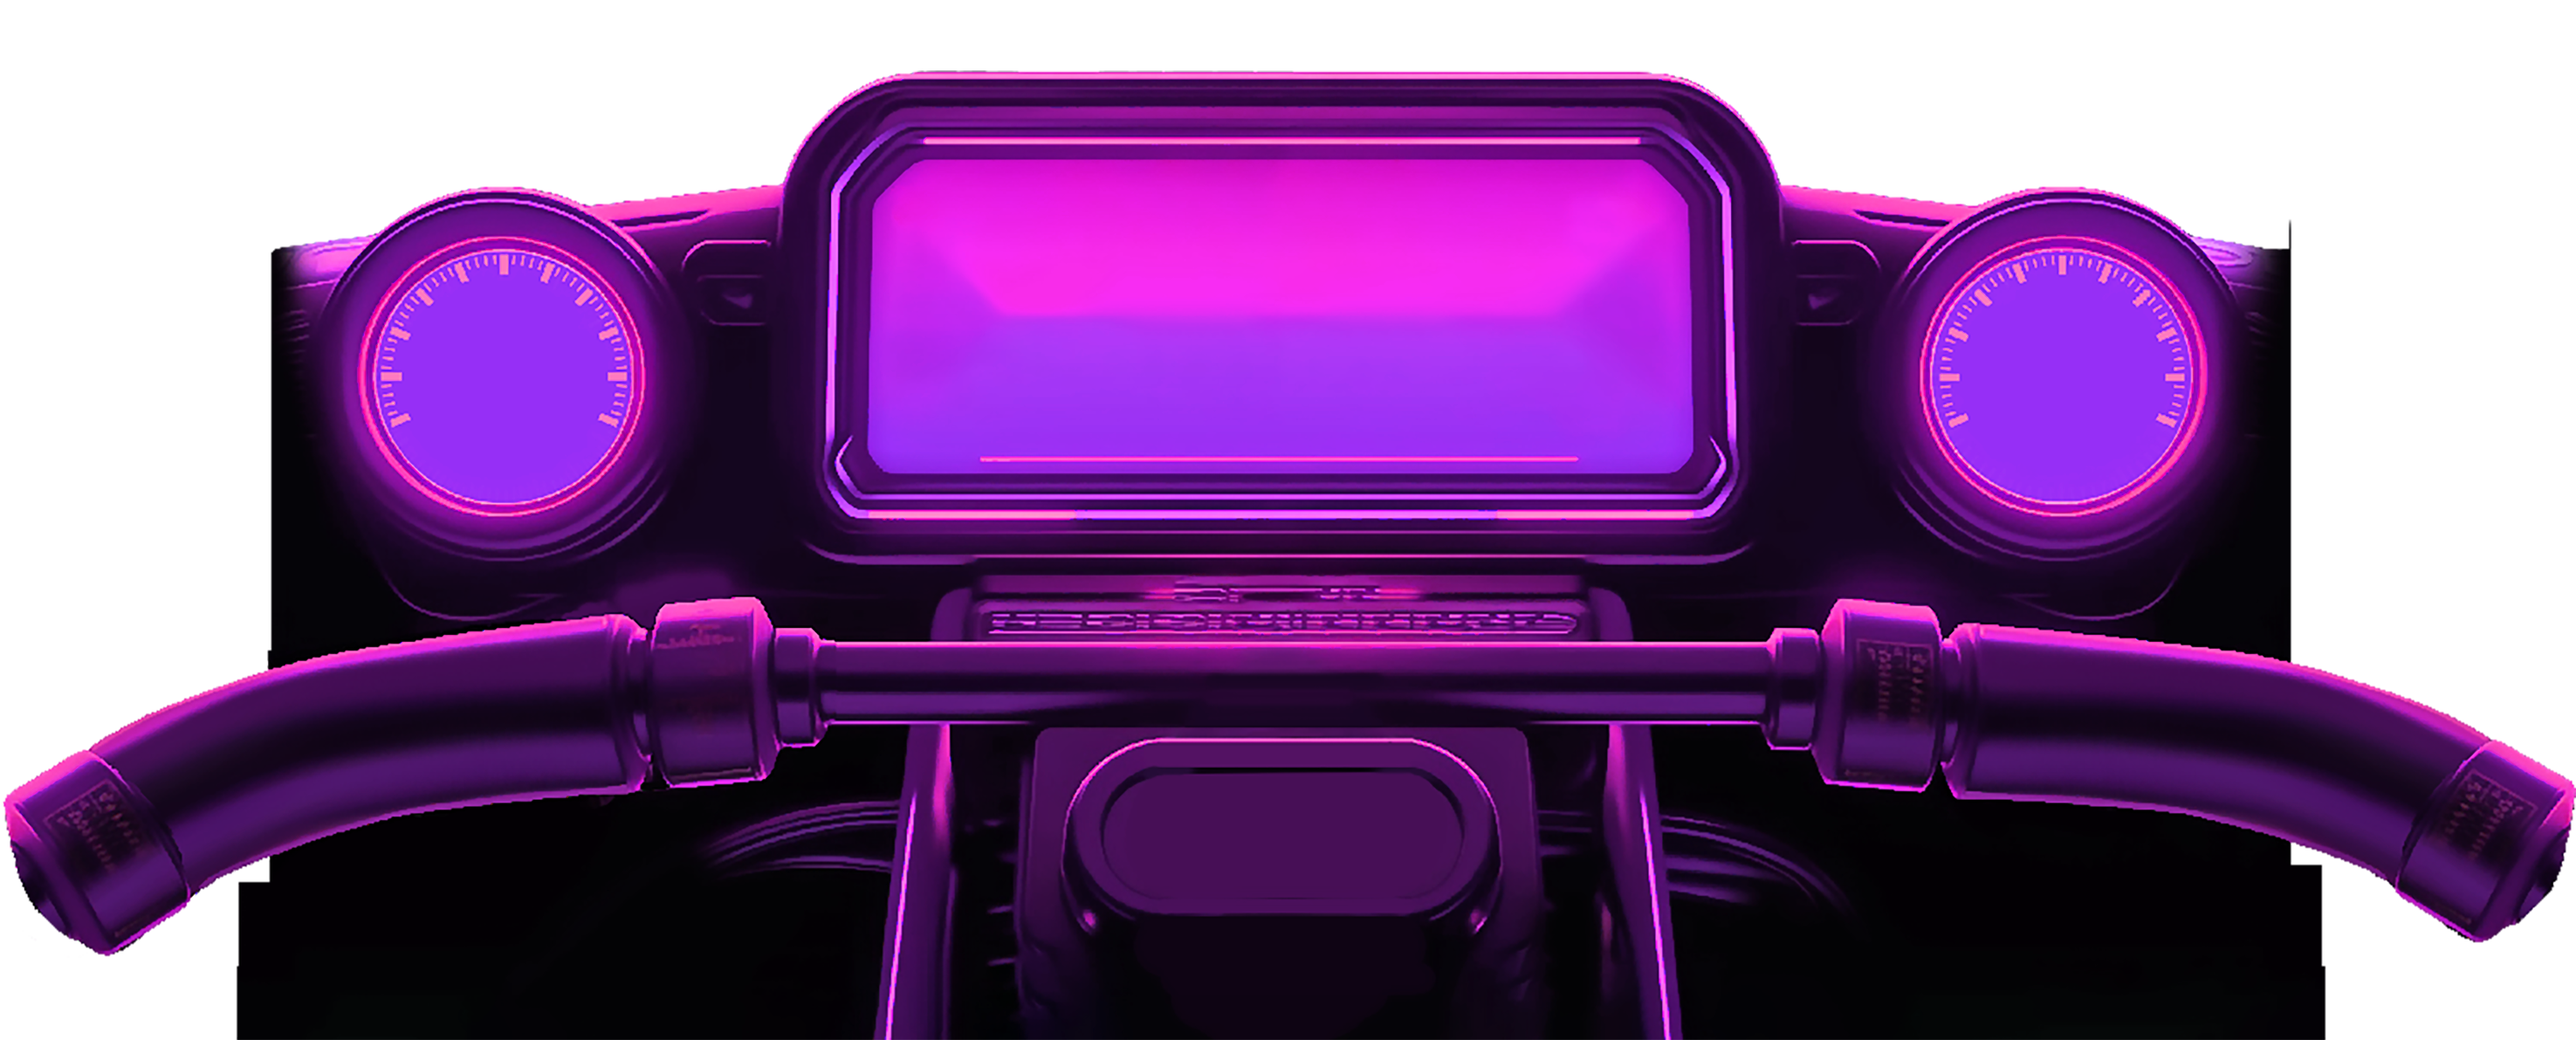
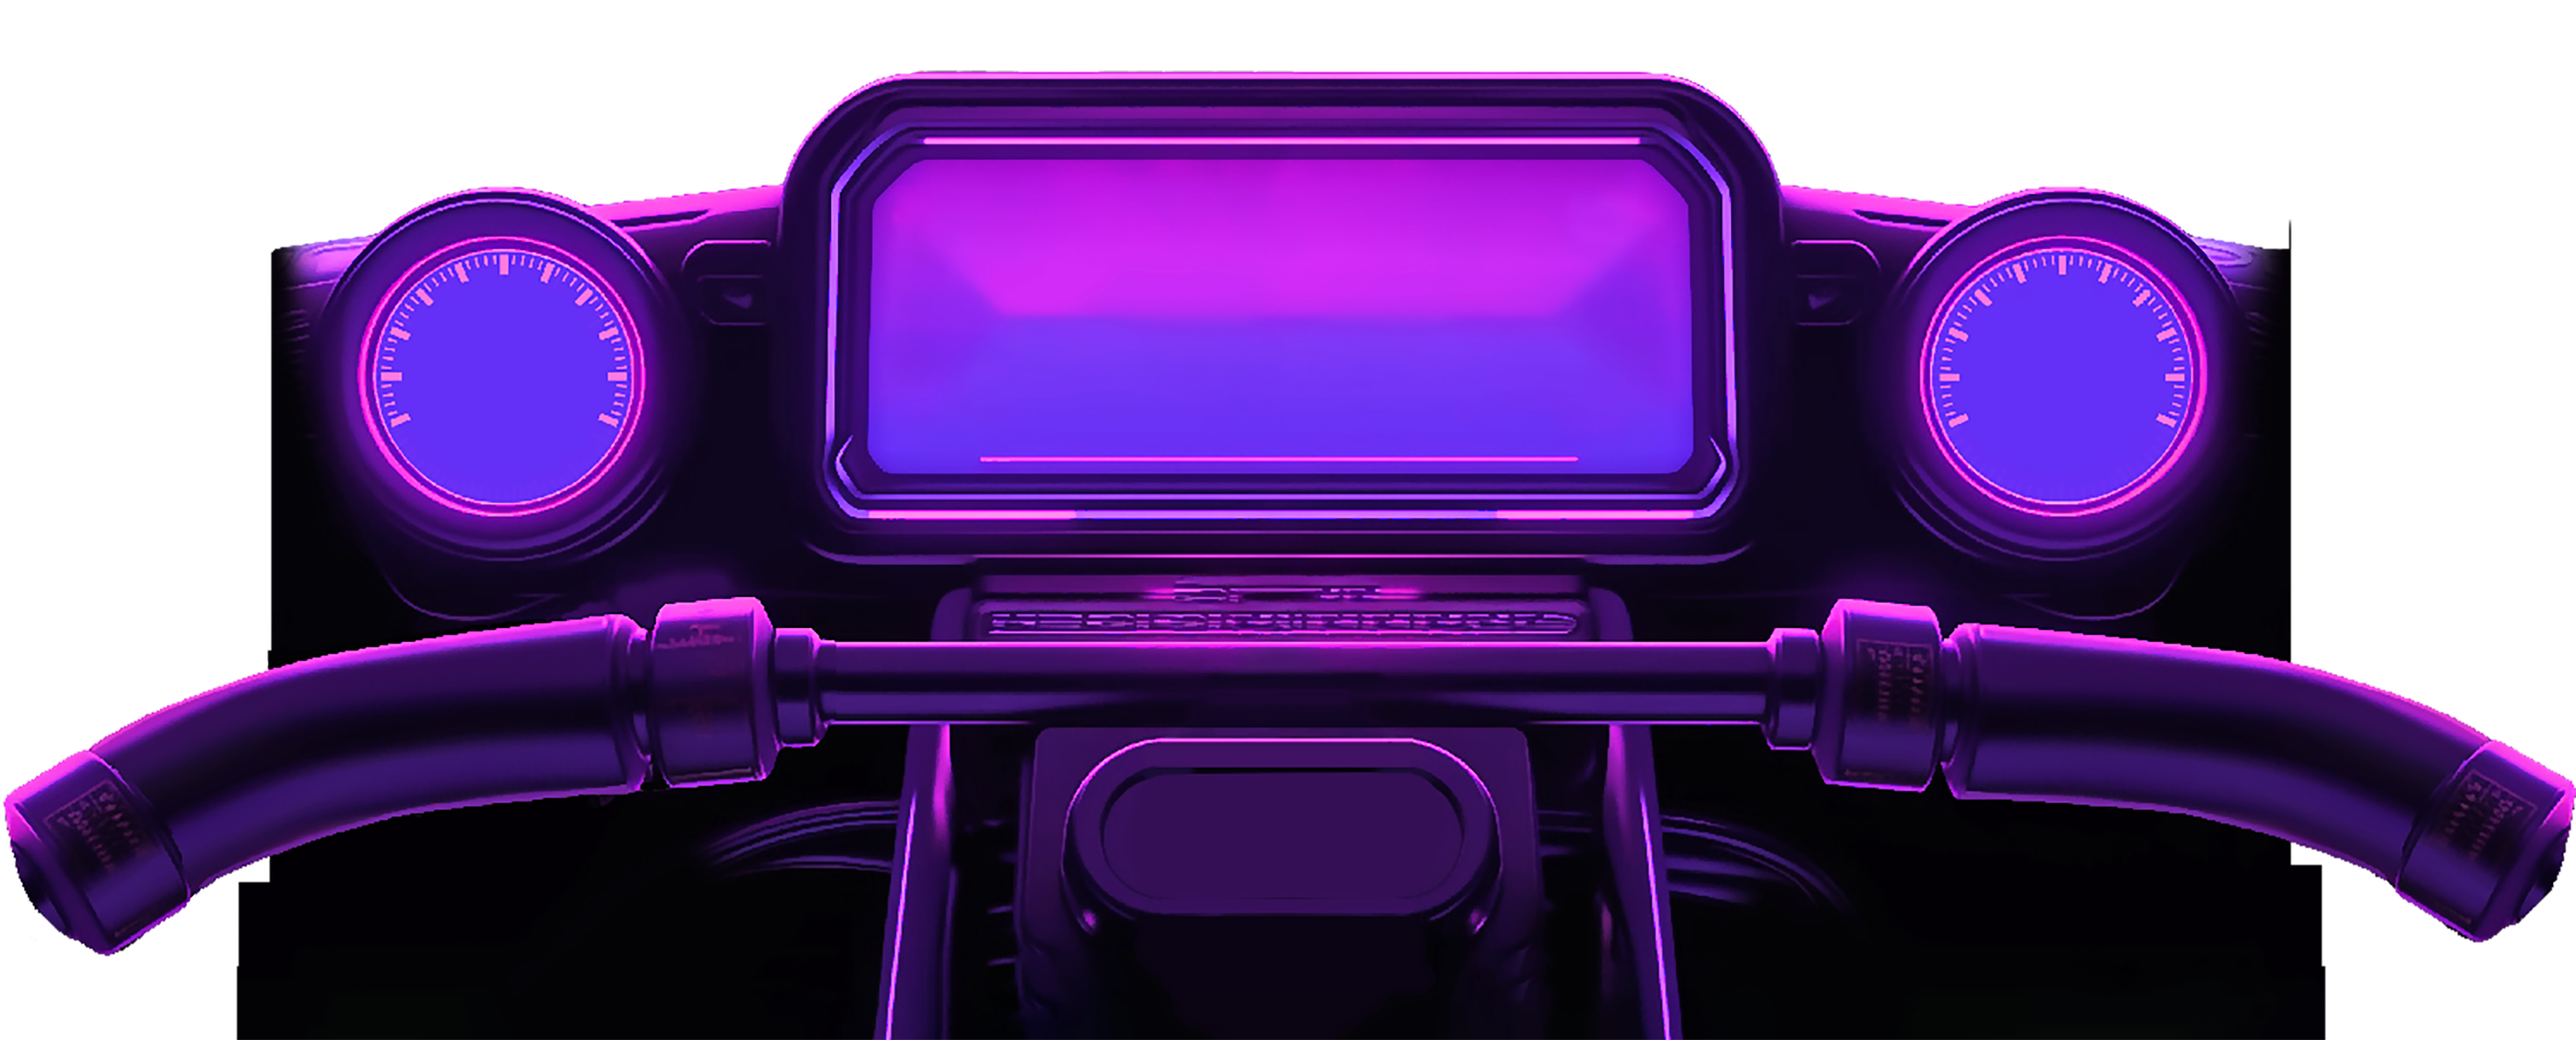
panel style update

diff --git a/game-ui/assets/style.css b/game-ui/assets/style.css
@@ -104,7 +104,7 @@
     position: absolute;
     z-index: 100;
     bottom: 0;
-    background: url('./items/panels/bike-panel-only.png') no-repeat center bottom;
+    background: url('./items/panels/bike-panel-dark.png') no-repeat center bottom;
     background-size: auto calc(50vh - 40px);
     filter: contrast(1);
     transition: filter 0.5s ease;
@@ -125,7 +125,7 @@
 
     50% {
         filter: contrast(1.5) brightness(1.5);
-        background-size: auto calc(50vh - 25px);
+        background-size: auto calc(50vh - 30px);
     }
 
     100% {
@@ -160,76 +160,47 @@
 }
 
 .player {
-    --bike-width: 10vw;
+    --bike-width: 121px;
 }
-
 .player .frame {
     position: absolute;
     z-index: 1;
     width: var(--bike-width);
 }
-
 .player .wheels {
     margin-top: 55px;
     position: absolute;
     width: var(--bike-width);
 }
-
 .player .back,
 .player .front {
     width: 30%;
     animation: spin 0.05s infinite linear;
+}
+.player-shadow {
+    z-index: 10;
+    --shadow-left: 70px;
+    position: absolute;
+    bottom: 3px;
+    left: var(--shadow-left);
+    width: 160px;
+    height: 12px;
+    border-radius: 50%;
+    filter: blur(3px);
+    background-image: linear-gradient(to left, rgba(0, 0, 0, 0.3) 0%, rgba(0, 0, 0, 0.8) 100%);
 }
 
 #red {
     --red-left: 200px;
     position: absolute;
     width: 8%;
-    margin-bottom: 10px;
+    margin-bottom: 8px;
     animation: redBackForth 5s infinite linear;
 }
 #red .player {
     min-height: 100px;
     width: 100%;
     margin-left: 100px;
-}
-#red .player-shadow {
-    --red-shadow-left: 110%;
-    position: absolute;
-    bottom: 0px;
-    left: var(--red-shadow-left);
-    transform: translateX(-50%);
-    width: 140%;
-    height: 10px;
-    border-radius: 50%;
-    filter: blur(3px);
-    animation: redShadowBackForth 5s infinite linear;
-    background-image: linear-gradient(to left, rgba(0, 0, 0, 0.5) 0%, rgba(0, 0, 0, 0.8) 100%);
-}
-@keyframes redShadowBackForth {
-    0% {
-        left: var(--red-shadow-left);
-    }
-
-    20% {
-        left: calc(var(--red-shadow-left) * 0.9);
-    }
-
-    40% {
-        left: var(--red-shadow-left);
-    }
-
-    60% {
-        left: calc(var(--red-shadow-left) * 1.5);
-    }
-
-    80% {
-        left: var(--red-shadow-left);
-    }
-
-    100% {
-        left: var(--red-shadow-left);
-    }
 }
 @keyframes redBackForth {
     0% {
@@ -257,6 +228,40 @@
     }
 }
 
+#purple {
+    --purple-left: 300px;
+    position: absolute;
+    width: 24%;
+    margin-bottom: 30px;
+    animation: purpleBackForth 5s infinite linear;
+}
+#purple .player {
+    min-height: 100px;
+    width: 95%;
+    margin-left: 100px;
+}
+@keyframes purpleBackForth {
+    0% {
+        margin-left: var(--purple-left);
+    }
+
+    25% {
+        margin-left: calc(var(--purple-left) * 0.8);
+    }
+
+    50% {
+        margin-left: var(--purple-left);
+    }
+
+    75% {
+        margin-left: calc(var(--purple-left) * 2);
+    }
+
+    100% {
+        margin-left: var(--purple-left);
+    }
+}
+
 #white {
     --white-left: 100px;
     position: absolute;
@@ -268,40 +273,6 @@
     min-height: 100px;
     width: 95%;
     margin-left: 100px;
-}
-#white .player-shadow {
-    --white-shadow-left: 140%;
-    position: absolute;
-    bottom: 0px;
-    left: var(--shadow-left);
-    transform: translateX(-50%);
-    width: 140%;
-    height: 10px;
-    border-radius: 50%;
-    filter: blur(3px);
-    animation: whiteShadowBackForth 5s infinite linear;
-    background-image: linear-gradient(to left, rgba(0, 0, 0, 0.5) 0%, rgba(0, 0, 0, 0.8) 100%);
-}
-@keyframes whiteShadowBackForth {
-    0% {
-        left: var(--white-shadow-left);
-    }
-
-    25% {
-        left: calc(var(--white-shadow-left) * 0.8);
-    }
-
-    50% {
-        left: var(--white-shadow-left);
-    }
-
-    75% {
-        left: calc(var(--white-shadow-left) * 2);
-    }
-
-    100% {
-        left: var(--white-shadow-left);
-    }
 }
 @keyframes whiteBackForth {
     0% {
@@ -325,86 +296,7 @@
     }
 }
 
-#purple {
-    --purple-left: 300px;
-    position: absolute;
-    width: 8%;
-    margin-bottom: 40px;
-    animation: purpleBackForth 5s infinite linear;
-}
-#purple .player {
-    min-height: 100px;
-    width: 95%;
-    margin-left: 100px;
-    background: url('./items/player/purple/purple-frame.png') left bottom;
-    background-size: contain;
-    background-repeat: no-repeat;
-}
-#purple .player .back {
-    background: url('./items/player/purple/purple-back.png') center center;
-    background-size: contain;
-    background-repeat: no-repeat;
-}
-#purple .player .front {
-    background: url('./items/player/purple/purple-front.png') center center;
-    background-size: contain;
-    background-repeat: no-repeat;
-}
-#purple .player-shadow {
-    --purple-shadow-left: 140%;
-    position: absolute;
-    bottom: 0px;
-    left: var(--shadow-left);
-    transform: translateX(-50%);
-    width: 140%;
-    height: 10px;
-    border-radius: 50%;
-    filter: blur(3px);
-    animation: purpleShadowBackForth 5s infinite linear;
-    background-image: linear-gradient(to left, rgba(0, 0, 0, 0.5) 0%, rgba(0, 0, 0, 0.8) 100%);
-}
-@keyframes purpleShadowBackForth {
-    0% {
-        left: var(--purple-shadow-left);
-    }
 
-    25% {
-        left: calc(var(--purple-shadow-left) * 0.8);
-    }
-
-    50% {
-        left: var(--purple-shadow-left);
-    }
-
-    75% {
-        left: calc(var(--purple-shadow-left) * 2);
-    }
-
-    100% {
-        left: var(--purple-shadow-left);
-    }
-}
-@keyframes purpleBackForth {
-    0% {
-        margin-left: var(--purple-left);
-    }
-
-    25% {
-        margin-left: calc(var(--purple-left) * 0.8);
-    }
-
-    50% {
-        margin-left: var(--purple-left);
-    }
-
-    75% {
-        margin-left: calc(var(--purple-left) * 2);
-    }
-
-    100% {
-        margin-left: var(--purple-left);
-    }
-}
 
 
 @keyframes spin {

diff --git a/game-ui/assets/index.html b/game-ui/assets/index.html
@@ -44,6 +44,7 @@
             <div id="game-body">
                 <div id="game-bg">
                     <div class="layer-top d-flex justify-content-start align-items-end">
+                        <!-- red -->
                         <div class="player-container" style="z-index:3;" id="red">
                             <div class="player">
                                 <img src="./items/player/red/red-frame.png" alt="frame" class="frame">
@@ -54,22 +55,24 @@
                             </div>
                             <div class="player-shadow"></div>
                         </div>
+                        <!-- purple -->
+                        <div class="player-container" style="z-index:2;" id="purple">
+                            <div class="player">
+                                <img src="./items/player/purple/purple-frame.png" alt="frame" class="frame">
+                                <div class="wheels d-flex justify-content-between">
+                                    <img src="./items/player/purple/purple-back.png" alt="backWheel" class="back">
+                                    <img src="./items/player/purple/purple-front.png" alt="backWheel" class="front">
+                                </div>
+                            </div>
+                            <div class="player-shadow"></div>
+                        </div>
+                        <!-- white -->
                         <div class="player-container" style="z-index:1;" id="white">
                             <div class="player">
                                 <img src="./items/player/white/white-frame.png" alt="frame" class="frame">
                                 <div class="wheels d-flex justify-content-between">
                                     <img src="./items/player/white/white-back.png" alt="backWheel" class="back">
                                     <img src="./items/player/white/white-front.png" alt="backWheel" class="front">
-                                </div>
-                            </div>
-                            <div class="player-shadow"></div>
-                        </div>
-                        <div class="player-container" style="z-index:1;" id="purple">
-                            <div class="player">
-                                <img src="./items/player/purple/purple-frame.png" alt="frame" class="frame">
-                                <div class="wheels d-flex justify-content-between">
-                                    <img src="./items/player/purple/purple-back.png" alt="backWheel" class="back">
-                                    <img src="./items/player/purple/purple-front.png" alt="backWheel" class="front">
                                 </div>
                             </div>
                             <div class="player-shadow"></div>

diff --git a/game-ui/assets/js/background.js b/game-ui/assets/js/background.js
@@ -6,18 +6,28 @@ let acceleration = 0.0001;
 let bikeSpeed = 5.98; // meters per second
 
 function moveBackground() {
-  marginLeft -= speed;
-  layerTop.style.backgroundPosition = `${marginLeft}px bottom`;
-  speed += acceleration;
-  bikeSpeed = speed * 5.98 / 60;
+  if (speed <= 10) {
+    marginLeft -= speed;
+    layerTop.style.backgroundPosition = `${marginLeft}px bottom`;
+    speed += acceleration;
+    bikeSpeed = speed * 5.98 / 60;
 
-  if (speed >= 8) {
-    const red = document.querySelector('#red');
-    red.style.animation = 'wobble 5s infinite alternate, redBackForth 5s infinite linear';
-  }
-  if (speed >= 8.5) {
-    const white = document.querySelector('#white');
-    white.style.animation = 'wobble 5s infinite alternate, whiteBackForth 5s infinite linear';
+    if (speed >= 7) {
+      const purple = document.querySelector('#purple');
+      purple.style.animation = 'wobble 5s infinite alternate, purpleBackForth 5s infinite linear';
+    }
+    if (speed >= 8) {
+      const red = document.querySelector('#red');
+      red.style.animation = 'wobble 5s infinite alternate, redBackForth 5s infinite linear';
+    }
+    if (speed >= 8.2) {
+      const white = document.querySelector('#white');
+      white.style.animation = 'wobble 5s infinite alternate, whiteBackForth 5s infinite linear';
+    }
+  }else{
+    marginLeft -= speed;
+    layerTop.style.backgroundPosition = `${marginLeft}px bottom`;
+    bikeSpeed = speed * 5.98 / 60;
   }
 }
 
